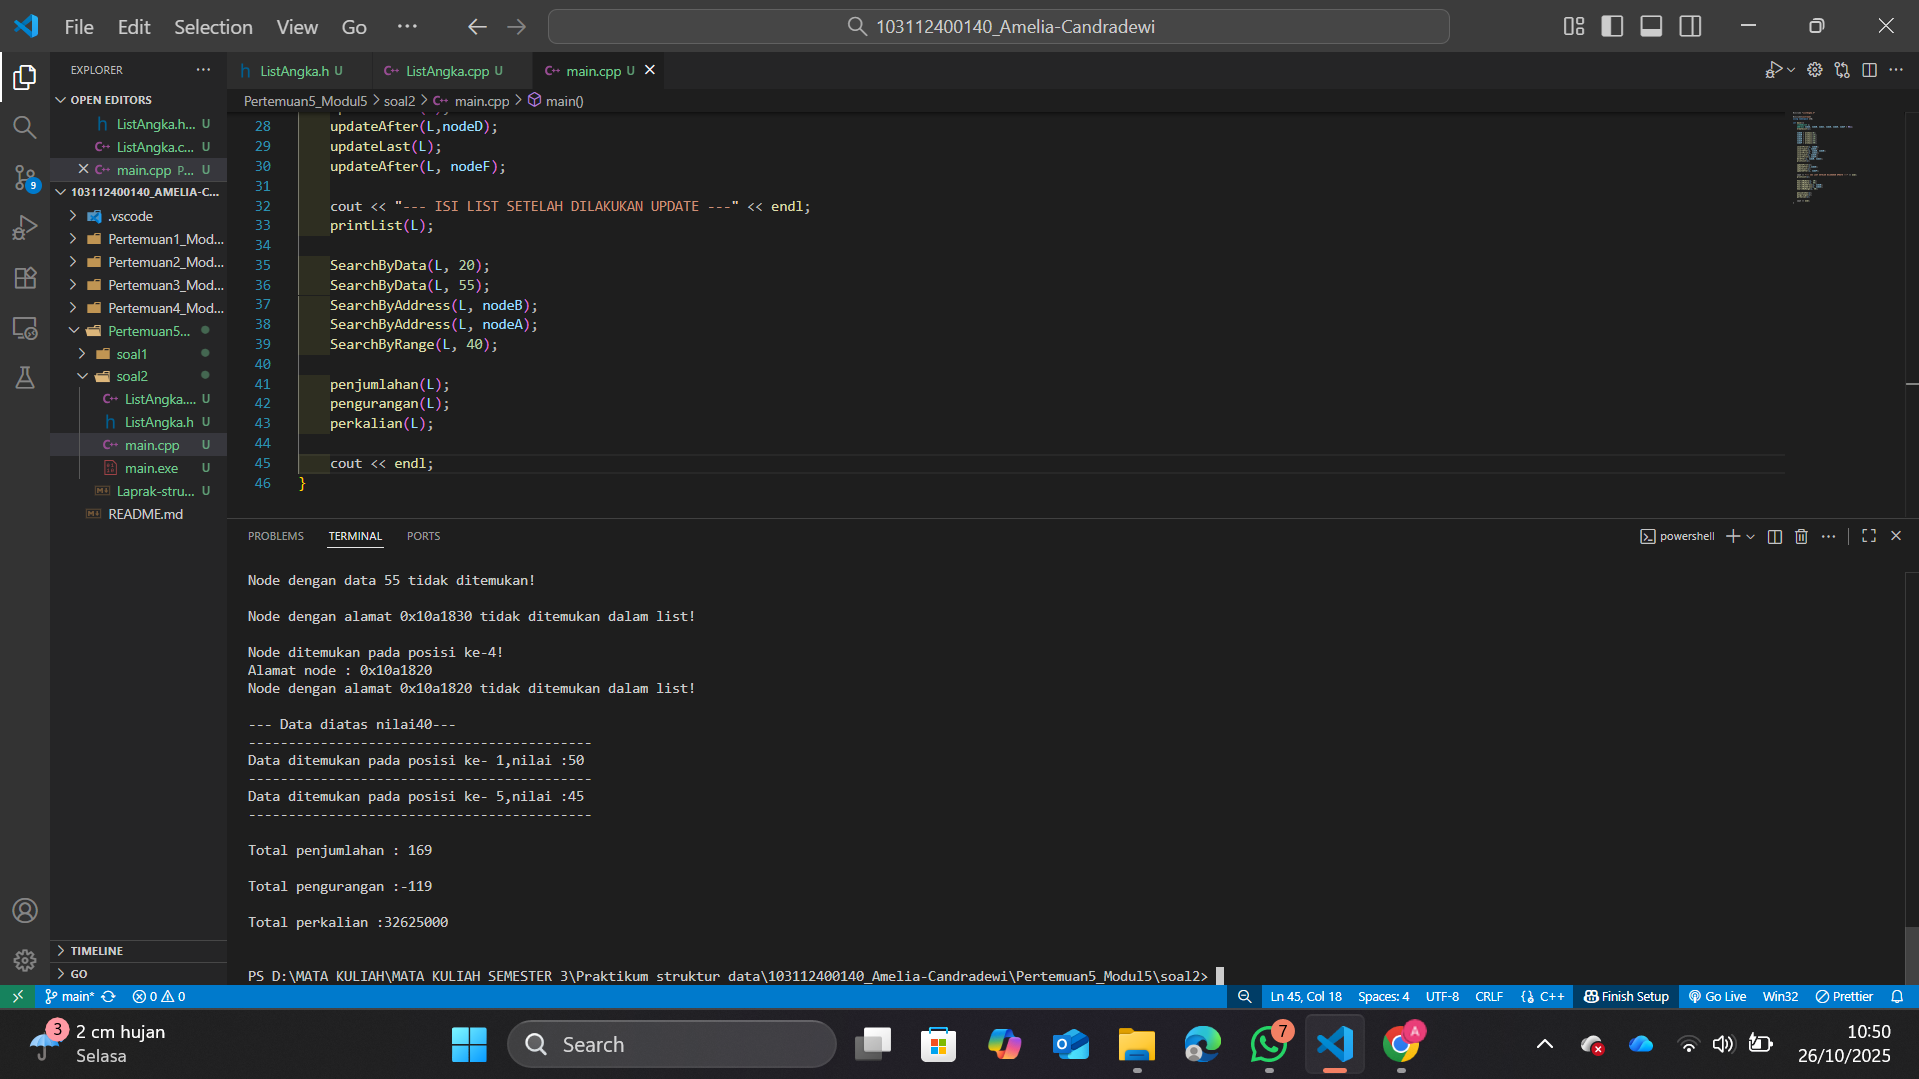
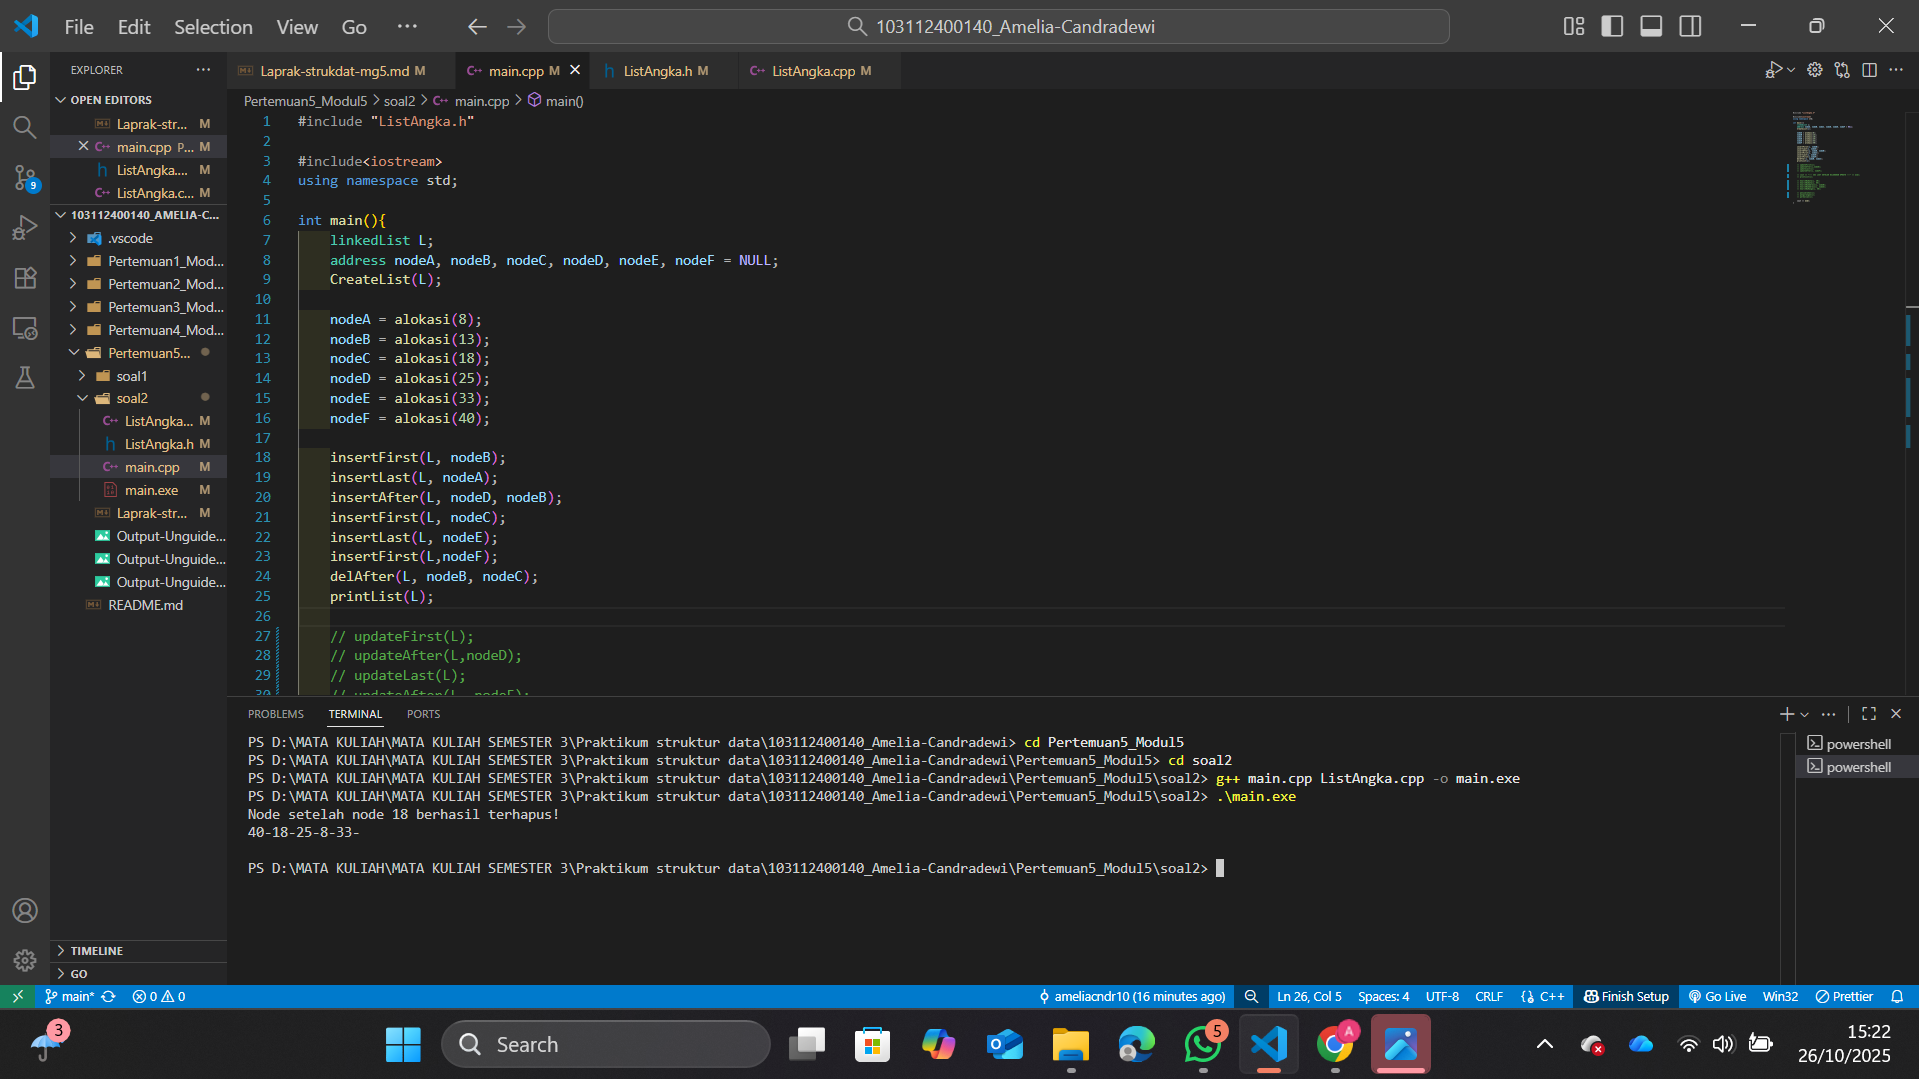
update ss an

diff --git a/Pertemuan5_Modul5/Laprak-strukdat-mg5.md b/Pertemuan5_Modul5/Laprak-strukdat-mg5.md
@@ -14,7 +14,7 @@ Update pada linked list merupakan update data dalam list yang bisa dilakukan di 
 
 Searching pada linked list merupakan mencari data dalam list bisa dilakukan dengan nilai data, address dan range[3].
 
-implementasi efektif dari Singly Linked List dalam C++—termasuk mekanisme Search by Data dan Update After—menegaskan bahwa struktur ini adalah alat yang fleksibel dan efisien, asalkan batasan aksesnya dipahami dan diterapkan secara tepat dalam konteks pemrograman.
+implementasi efektif dari Singly Linked List dalam C++ termasuk mekanisme Search by Data dan Update After menegaskan bahwa struktur ini adalah alat yang fleksibel dan efisien, asalkan batasan aksesnya dipahami dan diterapkan secara tepat dalam konteks pemrograman.
 
 ## Guided 
 
@@ -578,9 +578,6 @@ int main(){
 ##### Output 3
 ![Screenshot Output Unguided 1_3](https://github.com/ameliacndr10/103112400140_Amelia-Candradewi/blob/main/Pertemuan5_Modul5/Output-Unguided1-3.png)
 
-##### Output 4
-![Screenshot Output Unguided 1_4](https://github.com/ameliacndr10/103112400140_Amelia-Candradewi/blob/main/Pertemuan5_Modul5/Output-Unguided1-4.png)
-
 penjelasan unguided 1 
 Program ini meminta untuk membuat ADT Singly linked list, kemudian mencari elemen dengan info 8 dengan membuat fungsi findElm dan hitunglah jumlah total info seluruh elemen.
 
@@ -979,7 +976,10 @@ int main(){
 ![Screenshot Output Unguided 2_2](https://github.com/ameliacndr10/103112400140_Amelia-Candradewi/blob/main/Pertemuan5_Modul5/Output-Unguided2-2.png)
 
 ##### Output 3
-![Screenshot Output Unguided 1_1](https://github.com/ameliacndr10/103112400140_Amelia-Candradewi/blob/main/Pertemuan5_Modul5/Output-Unguided2-3.png)
+![Screenshot Output Unguided 2_3](https://github.com/ameliacndr10/103112400140_Amelia-Candradewi/blob/main/Pertemuan5_Modul5/Output-Unguided2-3.png)
+
+##### Output 3
+![Screenshot Output Unguided 2_4](https://github.com/ameliacndr10/103112400140_Amelia-Candradewi/blob/main/Pertemuan5_Modul5/Output-Unguided2-4.png)
 
 penjelasan unguided 2
 Program ini Membuat ADT Singlly linked list, lalu buat procedure updateFirst, updateLast, updateAfter, lalu cari prosedur' Buat procedure SearchByData, SearchByAddress, SearchByRange dan lakukan operasi aritmatika penjumlahan, pengurangan dan perkalian
